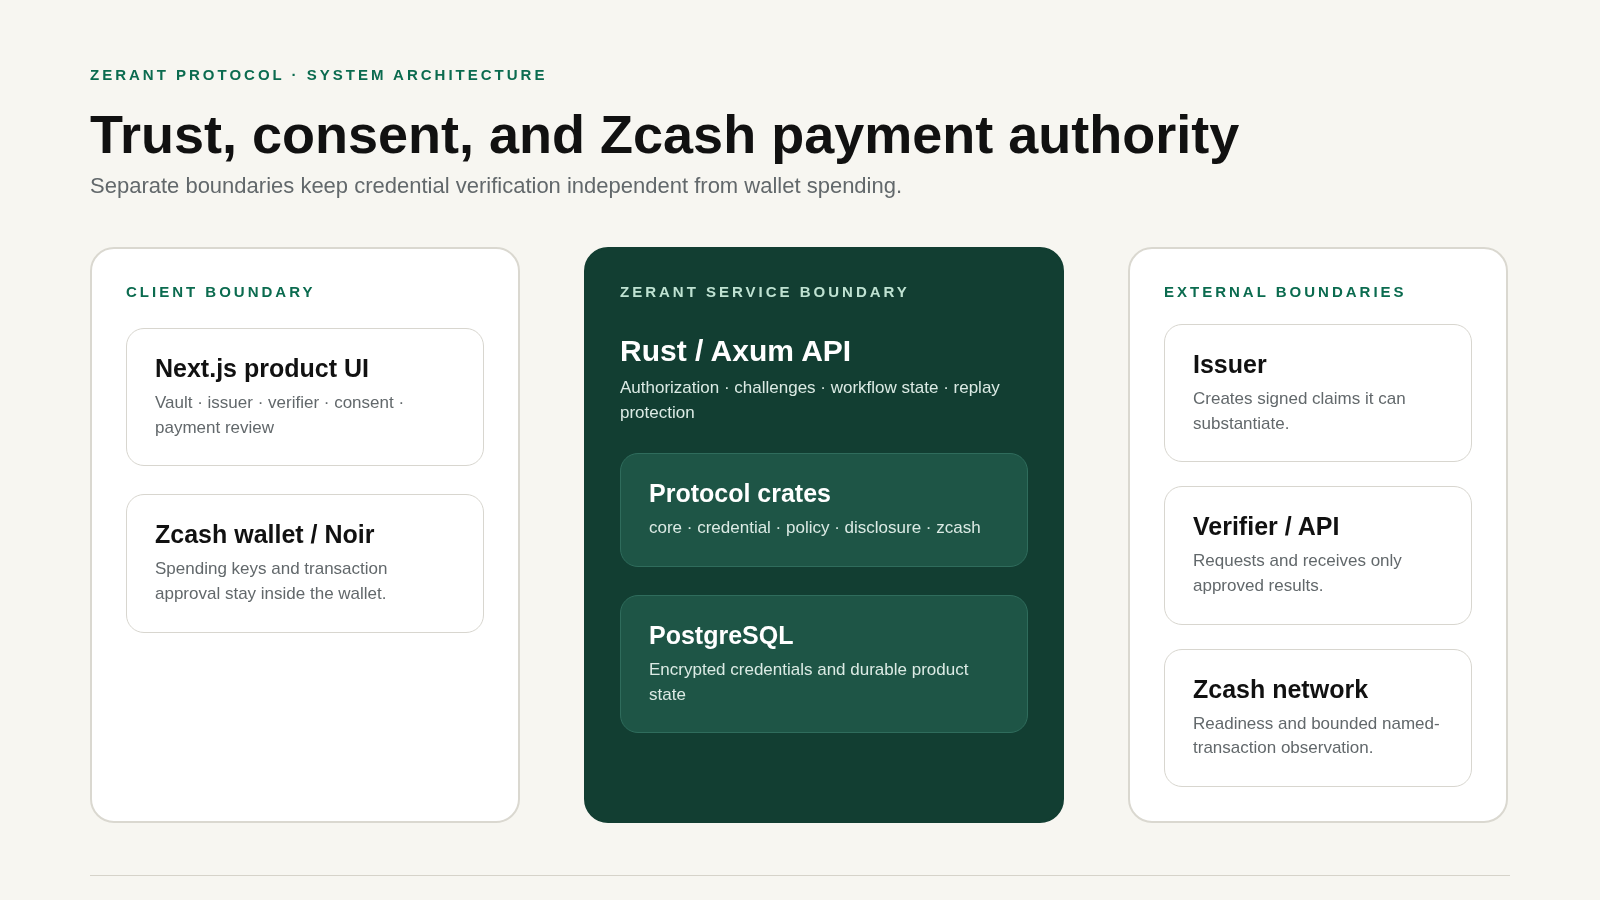
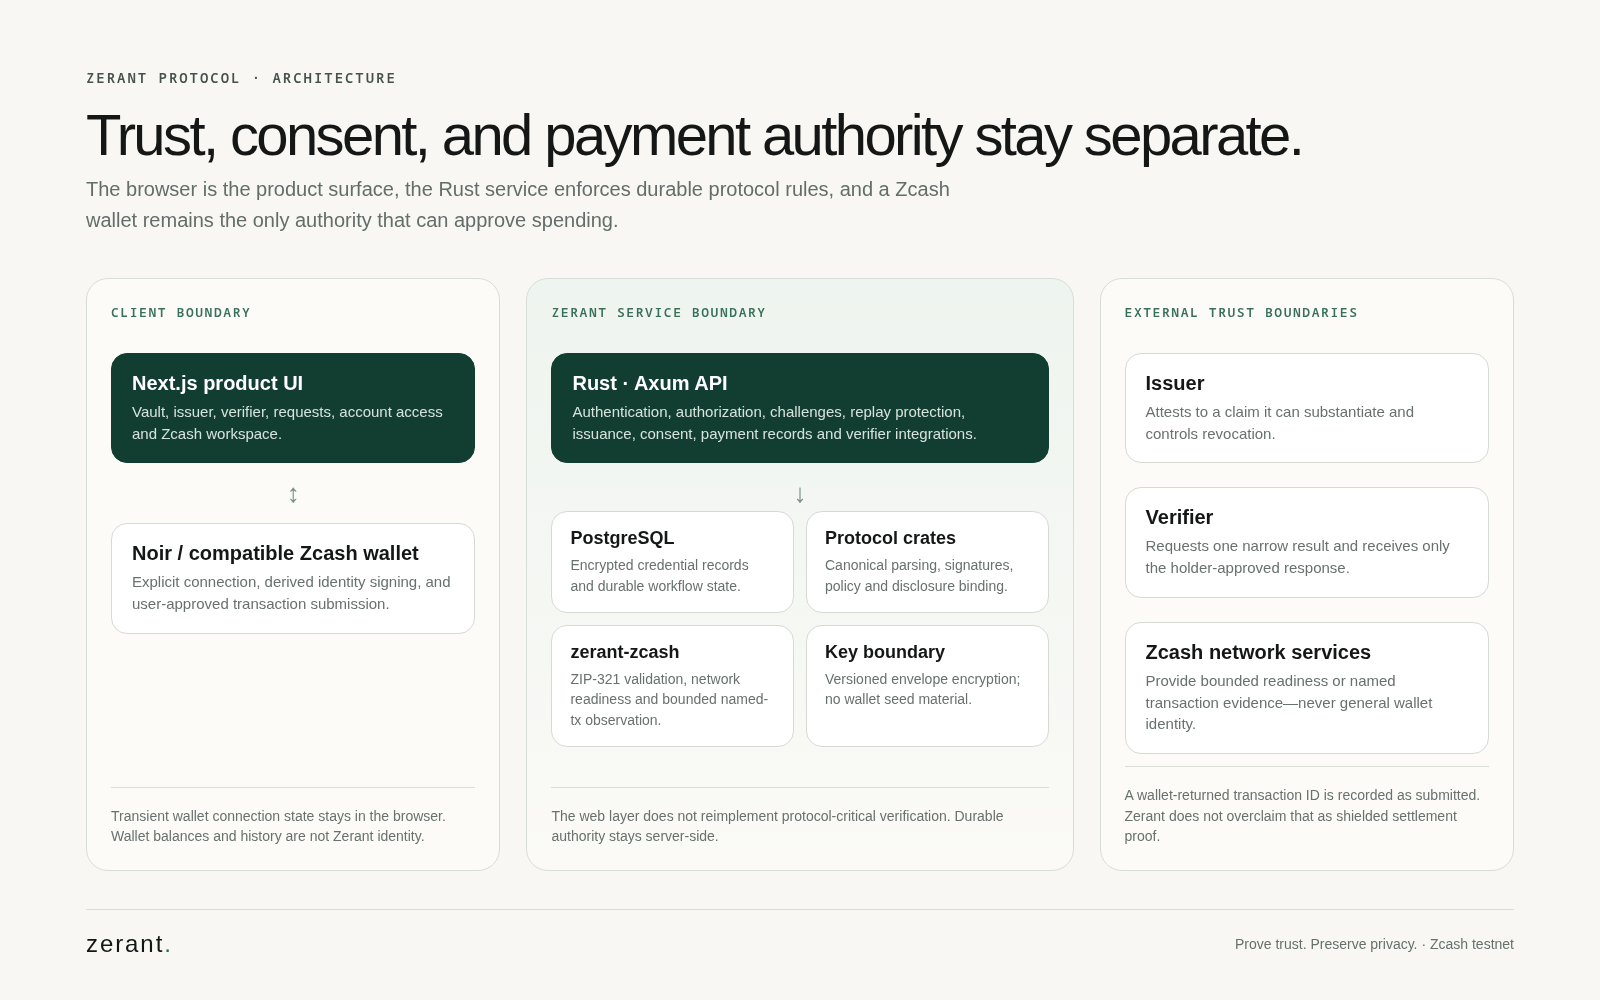
docs: finalize Colosseum submission pack

diff --git a/docs/COLOSSEUM_SUBMISSION.md b/docs/COLOSSEUM_SUBMISSION.md
@@ -1,0 +1,292 @@
+# Colosseum Submission Sheet — Zerant
+
+Use this file as the source of truth when completing the final hackathon project form. Keep every claim aligned with the deployed product.
+
+## Project identity
+
+**Name:** Zerant
+
+**Tagline:** Prove trust. Preserve privacy.
+
+**Live product:** https://zerant.vercel.app
+
+**Repository:** https://github.com/Oluwa-Laughter/zerant-protocol
+
+**Demo video:** Add the final public video URL after recording and verify it in a private/incognito browser before submission.
+
+## One-sentence description
+
+Zerant is a privacy-preserving trust layer for Zcash applications that lets issuers create trusted credentials, holders approve narrowly scoped proofs, and users authorize Zcash payments separately without turning wallet history into identity.
+
+## Short description
+
+Zerant helps applications verify one fact without collecting a person’s full identity, credential history, wallet address, balance, or transaction history. Issuers create signed credentials, holders keep them private under a Zerant ID, and verifiers request one purpose-bound claim. Zcash payments remain a separate wallet-approved capability, with ZIP-321 review, Noir Wallet support, invoices, and bounded payment tracking.
+
+## Problem
+
+Most digital trust systems over-collect information.
+
+A product that only needs to know whether someone satisfies one condition can end up receiving a full identity profile, unrelated credentials, wallet addresses, transaction history, or other evidence that is unnecessary for the decision.
+
+This creates three problems:
+
+1. users disclose more than the decision requires;
+2. applications inherit sensitive data they did not need to store;
+3. wallet identity, reputation, and payment activity become unnecessarily linked.
+
+## Solution
+
+Zerant separates three capabilities:
+
+- **Identity/account access** — a Zerant account can be accessed with a passkey; a Zcash wallet is optional.
+- **Credential disclosure** — a verifier asks for one narrow claim with a purpose, audience, nonce, and expiry; the holder reviews and approves or denies it.
+- **Payment authority** — if ZEC must move, the wallet separately authorizes that exact transaction.
+
+A verifier receives the approved result, not the holder’s entire private credential portfolio.
+
+A wallet connection never becomes automatic proof consent, and proof consent never becomes spending authority.
+
+## User flow
+
+1. An issuer creates a credential type and issues a signed credential to a holder’s Zerant ID.
+2. The holder sees the credential privately in the Vault.
+3. A verifier creates a short-lived request for one claim.
+4. The holder previews the exact disclosure and approves or denies it.
+5. Zerant re-verifies the request, issuer evidence, revocation state, expiry, audience, and replay binding before returning a verifier-specific result.
+6. If a payment is required, Zerant prepares or validates the Zcash payment request.
+7. The user connects a compatible wallet or opens the reviewed ZIP-321 request in another wallet.
+8. The wallet approves the transaction. Zerant records a returned transaction ID as submitted and keeps settlement claims separate from wallet submission.
+
+## What is implemented
+
+### Credentials and trust
+
+- signed issuer credentials;
+- private holder Vault;
+- issuer organizations and role-based administration;
+- credential definitions and lifecycle management;
+- issuer key rotation;
+- credential revocation;
+- public issuer discovery;
+- append-only issuer audit history.
+
+### Verification and consent
+
+- verifier applications;
+- short-lived domain/purpose/audience-bound requests;
+- holder preview before approval;
+- explicit approval or denial;
+- verifier-specific results;
+- replay protection;
+- API keys for verifier integrations;
+- signed webhook delivery and retry handling.
+
+### Account security
+
+- passkey account access;
+- optional Zcash wallet authentication;
+- opaque authenticated sessions;
+- remote session revocation;
+- encrypted credential storage;
+- bounded account activity history.
+
+### Zcash integration
+
+- Zcash testnet configuration;
+- Noir Wallet injected-provider support;
+- interactive zcash_requestAccounts connection;
+- silent zcash_getAccounts restoration;
+- derived-key wallet message signing for the supported identity path;
+- direct shielded payment when the connected wallet advertises that capability;
+- ZIP-321 request validation and portable wallet handoff;
+- Zcash address inspection;
+- prepared/submitted payment tracking;
+- bounded transaction observation;
+- shareable Zcash invoices;
+- Z3/Zallet capability and regtest integration boundaries.
+
+## Architecture
+
+The product is split into explicit trust boundaries:
+
+- **Next.js web app** — product UI, consent interaction, wallet selection, and transient connection state.
+- **Rust/Axum service** — authorization, durable workflow state, encrypted credential access, replay protection, issuer/verifier logic.
+- **Protocol crates** — canonicalization, credential signatures, policy evaluation, disclosure binding, and Zcash request validation.
+- **PostgreSQL** — encrypted credentials and durable application state.
+- **Zcash wallet** — spending keys and wallet-side transaction approval.
+- **Verifier** — receives only the result approved for its request.
+- **Zcash network services** — bounded readiness and named-transaction observation.
+
+See docs/assets/screenshots/03-architecture.png and docs/ARCHITECTURE.md.
+
+## Privacy and security boundaries
+
+Zerant intentionally does not claim more privacy than it implements.
+
+Current guarantees and boundaries:
+
+- wallet address, balance, and transaction history are not generic Zerant identity fields;
+- denial emits no credential result;
+- verifier requests are purpose-, audience-, expiry-, and replay-bound;
+- proofs/results are verifier-specific;
+- wallet payment approval is separate from proof consent;
+- a wallet-returned transaction ID is submission metadata, not automatic proof of exact shielded settlement;
+- credential records are encrypted at rest behind a versioned key-provider boundary.
+
+Current limitations:
+
+- the deployed credential service is not holder-only end-to-end encrypted;
+- Zerant does not claim anonymity or full unlinkability;
+- stronger unlinkable credential schemes remain future work;
+- exact shielded recipient/amount settlement needs an authorized observation path;
+- PCZT/FROST are capability boundaries, not custom cryptography implemented by Zerant;
+- mainnet direct spending is not the hackathon target.
+
+## Why Zcash
+
+Zcash is a natural settlement layer for a product whose goal is to minimize unnecessary disclosure.
+
+Zerant does not treat using Zcash as automatically making the rest of the application private. Instead, it keeps the privacy boundary explicit:
+
+- credentials and consent are handled by Zerant;
+- payment authority stays in the wallet;
+- Zcash testnet handles the payment;
+- the verifier receives only the approved trust result.
+
+This prevents the common mistake of turning a payment wallet into a universal application identity.
+
+## Technical stack
+
+**Frontend:** Next.js 16, React 19, TypeScript, Tailwind CSS.
+
+**Backend:** Rust, Axum, PostgreSQL/Neon.
+
+**Zcash:** Noir Wallet SDK, ZIP-321, Z3/Zallet integration boundaries, lightwalletd-compatible network readiness.
+
+**Security:** WebAuthn/passkeys, opaque sessions, encrypted credential storage, strict canonical parsing, origin/audience/nonce/expiry binding, replay protection, SSRF-safe webhooks.
+
+**Deployment:** Vercel Services with a private web-to-Rust service binding and Neon PostgreSQL.
+
+## What to emphasize to judges
+
+1. **The wallet is not the identity.**
+   Zerant deliberately separates account access, credential disclosure, and spending authority.
+
+2. **Consent is concrete.**
+   The holder reviews the exact requested claim before approval.
+
+3. **The verifier receives less data.**
+   The design is based on narrow, purpose-bound results instead of portfolio disclosure.
+
+4. **Zcash integration is honest about settlement.**
+   A wallet-returned txid is not overstated as exact shielded settlement proof.
+
+5. **The system is implemented as real product infrastructure.**
+   It includes issuer governance, revocation, passkeys, verifier APIs, signed webhooks, invoices, payment tracking, deployment, and tests—not only a mock UI.
+
+## Recommended 3-minute demo
+
+### 0:00–0:20 — Problem
+
+Show the landing page.
+
+Explain that applications often receive more identity and wallet information than a decision requires.
+
+### 0:20–0:45 — Private credential
+
+Sign in with a passkey and show one real credential in the Vault.
+
+Point out that no Zcash wallet is required to view or use the credential.
+
+### 0:45–1:25 — Narrow verification
+
+Create or open a verifier request.
+
+Show the purpose and requested claim.
+
+Switch to the holder request view, preview the disclosure, and approve it.
+
+Return to the verifier and show only the resulting claim.
+
+### 1:25–2:25 — Zcash payment boundary
+
+Open the Zcash workspace.
+
+Prepare a testnet payment.
+
+Show the exact recipient/amount and privacy review.
+
+Connect Testnet Noir Wallet.
+
+Approve the wallet request.
+
+If a real testnet payment is submitted, show the saved transaction ID and label it as submitted/pending verification—not automatically settled.
+
+### 2:25–2:45 — Invoice
+
+Show a shareable invoice or public payment request.
+
+Explain that the public page exposes the intended payment request, not the holder’s credential portfolio.
+
+### 2:45–3:00 — Close
+
+Zerant separates trust, consent, and payment authority. Applications learn the fact they asked for while unrelated identity and wallet activity stay outside the request.
+
+## Existing submission visuals
+
+- docs/assets/screenshots/01-landing.png
+- docs/assets/screenshots/02-zcash.png
+- docs/assets/screenshots/03-architecture.png
+- docs/assets/screenshots/04-flow.png
+
+Final manual screenshots to add during the real demo session are listed in docs/DEMO.md.
+
+## Demo video title
+
+**Zerant — Private Trust and Zcash Payments Without the Data Dragnet**
+
+## Demo video description
+
+Zerant is a privacy-preserving trust layer for Zcash applications. This demo shows private credential issuance, holder-controlled disclosure, verifier-specific results, and a separate Zcash payment flow where the user’s wallet retains spending authority.
+
+Live: https://zerant.vercel.app
+
+Code: https://github.com/Oluwa-Laughter/zerant-protocol
+
+## Final submission checklist
+
+- [ ] Latest production deployment is green.
+- [ ] https://zerant.vercel.app loads in an incognito/private browser.
+- [ ] Repository main branch contains the final implementation.
+- [ ] README images render correctly on GitHub.
+- [ ] Holder demo account contains one safe demo credential.
+- [ ] Verifier demo request can be completed end-to-end.
+- [ ] Testnet Noir Wallet is unlocked and approved for the production origin.
+- [ ] Payment demo uses testnet only.
+- [ ] Demo copy says submitted rather than settled unless exact settlement has actually been verified.
+- [ ] Final manual screenshots contain no seed phrase, API key, environment variable, wallet history, or private credential signature.
+- [ ] Demo video is publicly viewable without requiring the judge to log in.
+- [ ] Colosseum team submission profiles are complete.
+- [ ] Project details are complete.
+- [ ] Final survey is complete.
+- [ ] Final submission is reviewed before the deadline.
+
+## Final smoke checks
+
+Before final submission run:
+
+- pnpm --filter @zerant/web lint
+- pnpm --filter @zerant/web typecheck
+- pnpm --filter @zerant/web test
+- pnpm --filter @zerant/web build
+- git diff --check
+- python3 scripts/secret-check.py
+
+Production checks:
+
+- GET https://zerant.vercel.app/
+- GET https://zerant.vercel.app/api/zerant/health
+
+Expected health response:
+
+{"status":"ok","storage":"postgres","authentication":"zecauth-passkey","zcash_boundary":"z3-zallet"}

diff --git a/README.md b/README.md
@@ -199,7 +199,7 @@ The web app reaches the Rust service through a private Vercel service binding. D
 
 ## Demo
 
-Use [docs/DEMO.md](docs/DEMO.md) for the exact judging flow, screenshot checklist, and demo-video script.
+Use [docs/DEMO.md](docs/DEMO.md) for the exact judging flow, screenshot checklist, and demo-video script. The ready-to-paste Colosseum project copy, architecture summary, links, and final submission checklist are in [docs/COLOSSEUM_SUBMISSION.md](docs/COLOSSEUM_SUBMISSION.md).
 
 Recommended short demo path:
 
@@ -214,6 +214,7 @@ Recommended short demo path:
 
 ## Documentation
 
+- [Hackathon submission pack](docs/SUBMISSION.md)
 - [Architecture](docs/ARCHITECTURE.md)
 - [Demo and screenshot runbook](docs/DEMO.md)
 - [Protocol](docs/PROTOCOL.md)
